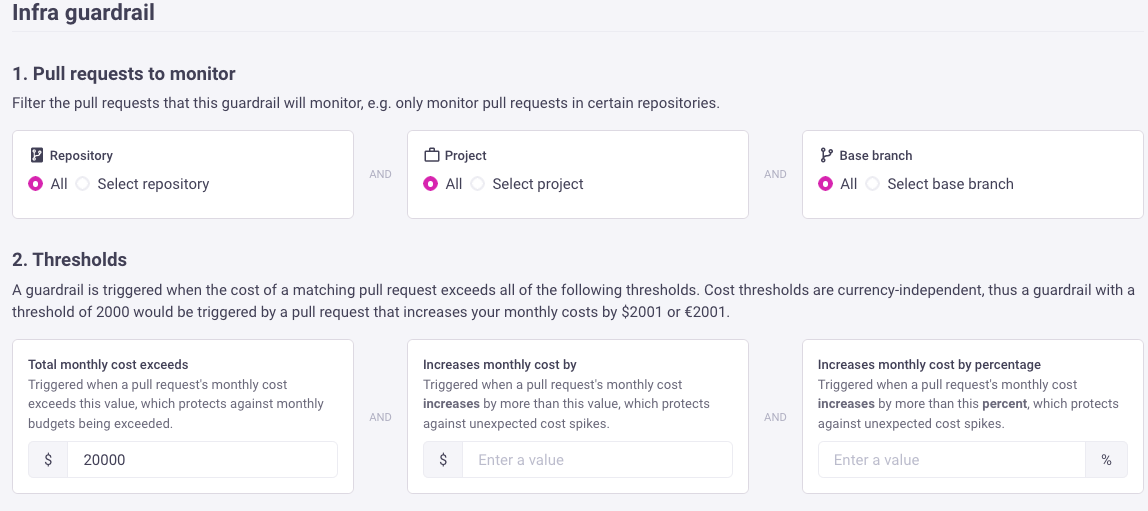
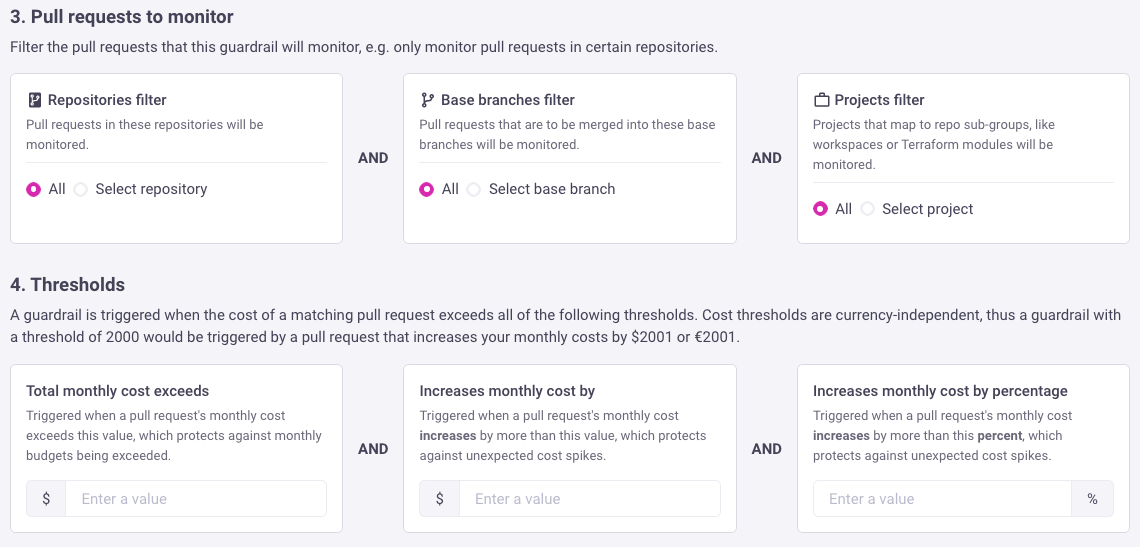
docs: update based on April changes

diff --git a/docs/infracost_cloud/guardrails.md b/docs/infracost_cloud/guardrails.md
@@ -5,7 +5,7 @@ title: Guardrails
 
 import useBaseUrl from '@docusaurus/useBaseUrl';
 
-Guardrails can help you control costs by monitoring pull requests (PRs) and triggering actions when your defined thresholds are exceeded. Once you define a cost or percentage-based threshold for the relevant repositories, projects, and branches, you can set up email, Slack, or Microsoft Teams notifications. You can also customize the PR comment (e.g. "This change exceeds the budget, please discuss with your team lead") or even block the PR until it has been reviewed.
+Guardrails help you control costs by monitoring pull requests (PRs) and triggering actions when your defined thresholds are exceeded. Once you define a cost or percentage-based threshold for the relevant repositories, projects, and branches, you can set up email, Slack, or Microsoft Teams notifications. You can also customize the PR comment (e.g. "This change exceeds the budget, please discuss with your team lead") or even block the PR until it has been reviewed.
 
 <img src={useBaseUrl("img/infracost-cloud/guardrails/cost-saving.png")} alt="Cost savings from guardrails" />
 
@@ -15,20 +15,30 @@ Guardrails also have an audit trail of the pull requests that triggered them:
 
 ## Usage
 
+You can create multiple guardrails, for example one with a lower threshold that simply notifies team leads and FinOps, and another one with a very high threshold that blocks the pull request until it has been reviewed.
+
 To create a guardrail, log in to [Infracost Cloud](https://dashboard.infracost.io) and go to the Guardrails page.
 
-## 1. Pull requests to monitor and their thresholds
+### 1. Scope of the guardrail
 
-First you should select any filters for the pull requests that this guardrail will monitor, e.g. only monitor pull requests in certain repositories.
+Give your guardrail a name, and select the whether the guardrail should be evaluated against the pull request cost as a whole, or against projects individually.
 
-Next you should select the thresholds that should trigger this guardrail, the three common use-cases are:
+[Projects](/docs/infracost_cloud/key_concepts/#projects) are an optional sub-grouping concept within a repo and can be mapped to things like workspaces (e.g., dev/stage/prod) or Terraform modules (e.g., auth/api/dashboard).
+
+<img src={useBaseUrl("img/infracost-cloud/guardrails/name-and-scope.png")} alt="Guardrail name and scope" />
+
+### 2. Pull requests to monitor and thresholds
+
+Next you should select any filters for the pull requests that this guardrail will monitor, e.g. only monitor pull requests in certain repositories.
+
+Then you should select the thresholds that should trigger this guardrail, the three common use-cases are:
 1. **Total monthly cost exceeds the budget**: triggered when a pull request's monthly cost exceeds this value, which protects against monthly budgets being exceeded.
 2. **Increases monthly cost by a fixed amount**: triggered when a pull request's monthly cost *increases* by more than this value, which protects against unexpected cost spikes.
 3. **Increases monthly cost by percentage**: triggered when a pull request's monthly cost *increases* by more than this *percent*, which also protects against unexpected cost spikes.
 
 <img src={useBaseUrl("img/infracost-cloud/guardrails/pull-request-filters-and-thresholds.png")} alt="Create a guardrail using pull request filters, and the thresholds that should trigger the guardrail" />
 
-## 2. Notifications to send
+### 3. Notifications to send
 
 You can select the users who should be emailed when a guardrail is triggered. You can also create a [Slack channel webhook](https://slack.com/intl/en-tr/help/articles/115005265063-Incoming-webhooks-for-Slack) and use that for notifications.
 
@@ -38,35 +48,35 @@ Regardless of which notification option you select, you can set a custom message
 
 <img src={useBaseUrl("img/infracost-cloud/guardrails/notifications.png")} alt="Select the notifications that should be sent when the guardrail is triggered" />
 
-### Email
+#### Email
 
 The following screenshot shows an example email notification.
 
 <img src={useBaseUrl("img/infracost-cloud/guardrails/email.png")} alt="Example email notification" />
 
-### Slack
+#### Slack
 
 The following screenshot shows an example Slack notification.
 
 <img src={useBaseUrl("img/infracost-cloud/guardrails/slack-message.png")} alt="Example Slack message" />
 
-### Microsoft Teams
+#### Microsoft Teams
 
 Guardrails can send an email to Microsoft Teams [channel email addresses](https://support.microsoft.com/en-us/office/tip-send-email-to-a-channel-2c17dbae-acdf-4209-a761-b463bdaaa4ca), which will be sent to the corresponding channel. The [email screenshot](#email) above shows the content of the message.
 
-### Custom pull request message
+#### Custom pull request message
 
 The following screenshot shows an example pull request comment with a custom message.
 
 <img src={useBaseUrl("img/infracost-cloud/guardrails/custom-pull-request-message.png")} alt="Example pull request comment with a custom message" />
 
-## 3. Block pull requests
+### 4. Block pull requests
 
 Use this option carefully. It works by failing the CI/CD pipeline that runs Infracost (`infracost comment` will `exit 1`). Depending on how you have configured your source control system this blocks the pull request from being merged, but your source control system admins can usually override this during urgent cases.
 
 This feature only works if you are using the [GitHub App](/docs/integrations/github_app) integration or the [`infracost comment`](/docs/features/cli_commands/#comment-on-pull-requests) command in CI/CD.
 
-### Setup
+#### Setup
 
 To setup this feature, you should:
 
@@ -78,16 +88,28 @@ To setup this feature, you should:
 
   <img src={useBaseUrl("img/infracost-cloud/guardrails/github-require-status-pass.png")} alt="Configure GitHub to require status checks to pass before pull requests can be merged" />
 
-### Example output
+#### Example output
 
 The following screenshot shows an example pull request that has been blocked due to a guardrail that was triggered.
 
 <img src={useBaseUrl("img/infracost-cloud/guardrails/blocked-pull-request.png")} alt="Example pull request being blocked due to a triggered guardrail" />
 
-## 4. Unblock pull requests
+### 5. Unblock pull requests
 
 When a pull request (PR) is blocked by a guardrail, the email notification will now include a link to the PR page in Infracost Cloud. From there (as shown below), you can review the cost estimate, see details of the triggered guardrail, and unblock the PR.
 
 If someone with admin access on GitHub overrides the guardrail and merges the PR, Infracost Cloud will send an additional email notification to the people subscribed to the guardrail. This provides everyone with visibility of the change, thus preventing surprises in the cloud bill.
 
 <img src={useBaseUrl("img/infracost-cloud/guardrails/unblock-pr.png")} alt="Unblock pull requests" />
+
+## How Guardrails work
+
+The following example describes how guardrails work. Let's say you have two guardrails:
+1. A guardrail called "20 percent threshold" that notified FinOps when a pull request (PR) increases costs by more than 20%. This keeps them in the loop and avoids surprising them as this is an anticipated change being made by engineering.
+2. Another guardrail called "budget" that blocks the PR when the total cost goes over the budget, $10K/month. This enables the team lead to review and unblock the PR, and coordinate the budget increase with the management team.
+
+When a new PR is opened that is below the threshold, both guardrails pass.
+- When new commits are added to the open PR that exceed the 20% threshold, the first guardrail triggers and notifies the FinOps team.
+- When more commits are added to the open PR that exceed the second threshold (budget), the second guardrail triggers and blocks the PR until it has been reviewed.
+- When the PR is unblocked by a team lead in Infracost Cloud, it can be merged.
+- Now if more commits are added to the open PR that increase the costs even further, the PR is not blocked by the guardrail as it has already been unblocked once. This reduces noise and prevents frustrating the engineering team as the team leads are now in the loop about the upcoming change.

diff --git a/docs/features/config_file.md b/docs/features/config_file.md
@@ -263,11 +263,11 @@ Templates use a pair of curly braces `{{ }}` to delimit actions, such as `variab
 For example, `{{ $project.name }}` would print the value of the `$project.name`, while 
 
 ```gotemplate
-{{ if .Enabled }}
+{{- if .Enabled }}
   Enabled
-{{ else }}
+{{- else }}
   Disabled
-{{ end }}
+{{- end }}
 ```
 
 would execute conditional logic based on the value of the `Enabled` field in the current context. 
@@ -277,20 +277,20 @@ would execute conditional logic based on the value of the `Enabled` field in the
 Conditional logic can be added to templates using the `{{ if }}`, `{{ else if }}`, and `{{ else }}` keywords. For example
 
 ```gotemplate
-{{ if .Enabled }}
+{{- if .Enabled }}
   Enabled
-{{ else }}
+{{- else }}
   Disabled
-{{ end }}
+{{- end }}
 ```
 
 would print `"Enabled"` if the `Enabled` field in the current context is true, and `"Disabled"` otherwise. This can be useful to conditionally include projects for Infracost to evaluate, for example:
 
 ```gotemplate
-{{ if ne $project.name "test" }}
+{{- if ne $project.name "test" }}
   - path: .
     ...
-{{ end }}
+{{- end }}
 ```
 
 adds a configuration entry for the current project if it does not equal "test".
@@ -300,9 +300,9 @@ adds a configuration entry for the current project if it does not equal "test".
 Templates can iterate over arrays and maps using the `{{ range }}` keyword. For example:
 
 ```
-{{ range .Items }}
-  {{ .Name }}
-{{ end }}
+{{- range .Items }}
+  {{- .Name }}
+{{- end }}
 ```
 
 would print the value of the `Name` field for each item in the `Items` array in the current context. Within config file templates `range` expressions are normally combined with [`matchPaths`](#matchpaths) calls to iterate over a subset of directories or files, for example: 
@@ -315,7 +315,6 @@ would print the value of the `Name` field for each item in the `Items` array in 
 ```
 
 sets successive elements returned from [`matchPaths`](#matchpaths) to `$project`, which can be accessed inside the `range` loop, e.g. `$project.env`
-
 
 ## Functions
 
@@ -455,17 +454,16 @@ values={[
 
     projects:
     {{- range $project := matchPaths "environment/:env/terraform.tfvars" }}
-      {{ if pathExists $project._dir "include.txt" }}
+      {{- if pathExists $project._dir "include.txt" }}
       - path: .
         name: {{ $project.env }}
-      {{ end }}
+      {{- end }}
     {{- end }}
 
   </TabItem>
   <TabItem value="output">
 
     version: 0.1
-
     projects:
       - path: .
         name: dev

diff --git a/docs/integrations/github_app.md b/docs/integrations/github_app.md
@@ -40,8 +40,6 @@ Furthermore, if you use Infracost Cloud (our SaaS product):
 
 6. Open a test pull request and wait for Infracost to leave a pull request comment. The [Infracost Cloud dashboard](https://dashboard.infracost.io) should also show the cost estimate too.
 
-  Each time a new commit is pushed to an open pull request, the Infracost GitHub App shows the cost difference between the most recent commit of the pull request branch, and the merge base of the base branch. The merge base is the latest common commit of the pull request base and target branch. This mirrors GitHub's pull request diff logic and shows only the cost of 'what a pull request introduces'.
-
 7. When the pull request is merged the Infracost Cloud dashboard will show you the time it was merged, who approved it, who merged it, and any labels associated with it on GitHub.
 
 ## Pull request status
@@ -72,3 +70,9 @@ If you have restricted out-going traffic from your instance, you need to allow t
 ### GitHub Enterprise Server
 
 Email us at [hello@infracost.io](mailto:hello@infracost.io) to enable GitHub Enterprise Server in your Infracost Cloud account. This requires a meeting with your server admin so we can install the Infracost GitHub App in your GitHub organization.
+
+## How the GitHub App works
+
+The GitHub App needs read access to code repos so it can run the CLI against them, and write access to pull requests so it can post the cost estimate comment. You can select the repos you would like to give access to the App.
+
+Each time a pull request is opened or a new commit is pushed to open pull requests, the Infracost GitHub App shows the cost difference between the most recent commit of the pull request branch, and the merge base of the base branch. The merge base is the latest common commit of the pull request base and target branch. This mirrors GitHub's pull request diff logic and shows only the cost of 'what a pull request introduces'.

diff --git a/docs/features/terraform_modules.md b/docs/features/terraform_modules.md
@@ -42,13 +42,21 @@ If your SSH key has a passphrase too, you can also add an environment variable o
 We suggest tweaking your Terraform code to download modules using [SSH instead of HTTPS](https://developer.hashicorp.com/terraform/language/modules/sources#github). This is usually a 1-line change, and it should be safe as you are just telling Terraform/Infracost to download the module differently (but obviously test it). Here's an example of an HTTPS module being used:
 
 ```terraform
+# HTTPS module being used
 module "my-module" {
-  source  = "github.com/my-org/my-terraform-private-module"
-  version = "~> 3.0"
+  source  = "github.com/my-org/my-terraform-private-module?ref=v1.2.3"
   ...
 ```
 
-If you change the `source` to `git@github.com:my-org/terraform-private-module.git` then SSH will be used to download the module, thus HTTPS credentials will not be necessary. The format is `git@github.com:MY-ORG/MY-MODULE-REPO.git`, check the [Terraform docs](https://developer.hashicorp.com/terraform/language/modules/sources#github) for more details.
+As shown below, if you change the `source` to `git@github.com:my-org/terraform-private-module.git` then SSH will be used to download the module, thus HTTPS credentials will not be necessary. The format is `git@github.com:MY-ORG/MY-MODULE-REPO.git`, check the [Terraform docs](https://developer.hashicorp.com/terraform/language/modules/sources#github) for more details.
+
+```terraform
+# Switch the above to use SSH
+module "my-module" {
+  source  = "git@github.com:my-org/terraform-private-module.git"
+  ref = "v1.2.3"
+  ...
+```
 
 #### Option 2: Provide HTTPS credentials
 

diff --git a/docs/features/environment_variables.md b/docs/features/environment_variables.md
@@ -92,7 +92,7 @@ We recommend exporting environment variables using quotes so values with spaces 
 - `INFRACOST_VCS_PULL_REQUEST_URL`: Required. HTTP URL of the pull request, e.g. "https://github.com/alikhajeh1/example-terraform/pull/2"
 - `INFRACOST_VCS_PULL_REQUEST_AUTHOR`: Required. Author username or full name of the pull request, e.g. "john190" or "John Smith". If you can't get this easily, you can also set this to the git username of the first or last commit.
 - `INFRACOST_VCS_PULL_REQUEST_TITLE`: Required. Title of the pull request, e.g. "Increase IOPS"
-- `INFRACOST_VCS_BASE_BRANCH`: Required. Name of the base branch that the pull request is being merged into, this is usually "master" or "main"
+- `INFRACOST_VCS_BASE_BRANCH`: Required. Name of the base branch that the pull request is being merged into, this is usually "master" or "main". Without this the Jira integration does not work properly.
 - `INFRACOST_VCS_BRANCH`: Required. Name of the branch that was used to generate the estimate, e.g. "increase_iops"
 - `INFRACOST_VCS_COMMIT_SHA`: Required. Long commit SHA of the branch that was used to generate the estimate, e.g. "1af413ad15ad6cbdfca667361231231231231231"
 - `INFRACOST_VCS_COMMIT_MESSAGE`: Required. The commit message, e.g. "use m5.large"

diff --git a/docs/infracost_cloud/key_concepts.md b/docs/infracost_cloud/key_concepts.md
@@ -15,10 +15,10 @@ Infracost API keys are associated with organizations and can be retrieved from t
 
 ### Team management
 
-From the Members page, you can invite your team members to join your organization. Currently only one role is supported:
-- Org Admin: they can do everything in the organization except delete the organization.
-
-From the Members page, you can also change the Org Owner to another member. We treat the Org Owner as the main billing contact for the organization.
+From the Members page, you can invite your team members to join your organization. Currently three roles are supported:
+- Org Owner: they own and have complete control over the organization. We currently treat the Org Owner as the main billing contact for the organization too. From the Members page, you can change the Org Owner to another member.
+- Org Admin: they can do everything in the organization except deleting the organization..
+- Org Viewer: they can view everything in the organization except the API key. They cannot make any changes.
 
 ## Repos
 
